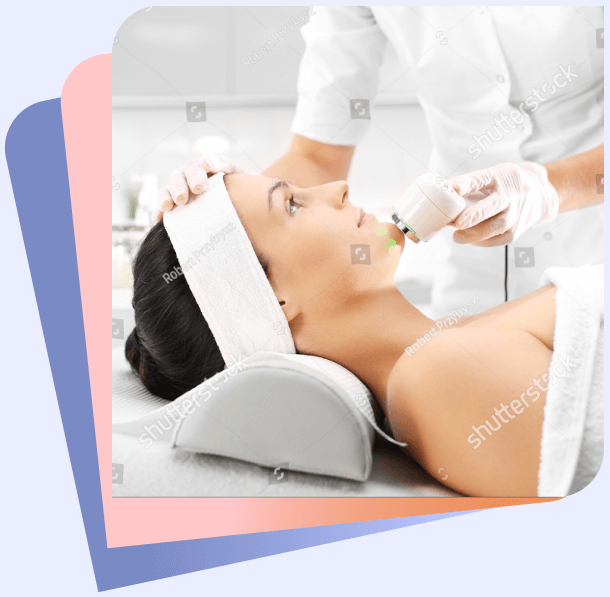
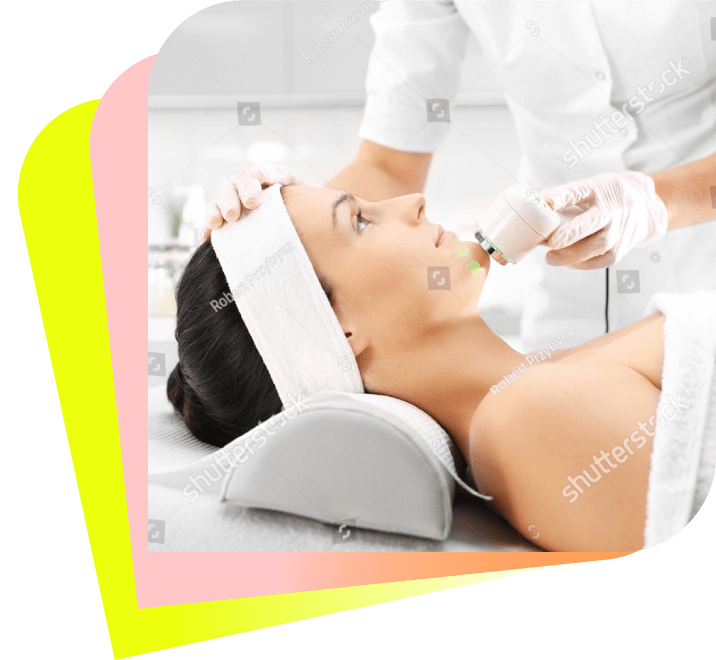
WIP

Changed region(s): [[0.0, 0.0, 1.0, 1.0], [0.5607, 0.0, 0.6541, 0.0905], [0.2803, 0.1508, 0.3738, 0.2111]]

diff --git a/src/app/components/home/Clinics.tsx b/src/app/components/home/Clinics.tsx
@@ -1,7 +1,7 @@
 'use client';
 
 import { useState } from 'react';
-import * as AccordionPrimitive from '@radix-ui/react-accordion';
+import * as Accordion from '@radix-ui/react-accordion';
 import { HOLAGLOW_COLORS } from 'app/utils/colors';
 import { Container, Flex } from 'designSystem/Layouts/Layouts';
 import { Text, Title, Underlined } from 'designSystem/Texts/Texts';
@@ -10,13 +10,13 @@ import Link from 'next/link';
 
 const CLINICS = [
   {
-    city: 'Barcelona',
-    address: 'Av. Diagonal 299, 08013',
+    city: 'Madrid',
+    address: 'c. Andrés Mellado 3, 28015',
     link: 'htpps://www.holaglow.es',
   },
   {
-    city: 'Madrid',
-    address: 'c. Andrés Mellado 3, 28015',
+    city: 'Barcelona',
+    address: 'Av. Diagonal 299, 08013',
     link: 'htpps://www.holaglow.es',
   },
   {
@@ -29,97 +29,119 @@ const CLINICS = [
 export default function Clinics() {
   const [selectedClinic, setSelectedClinic] = useState(CLINICS[0].city);
 
-  const Clinic = ({
-    city,
-    address,
-    link,
-  }: {
-    city: string;
-    address: string;
-    link: string;
-  }) => {
-    const [isActive] = useState(selectedClinic === city);
+  return (
+    <div className="relative bg-white">
+      <Container className="py-12">
+        <Title size="2xl" className="font-bold mb-8 md:w-1/2">
+          Nuestras <br className="hidden md:block" />
+          <Underlined color={HOLAGLOW_COLORS['lime']}>clínicas</Underlined>
+        </Title>
 
-    return (
-      <AccordionPrimitive.Root
-        type="single"
-        defaultValue="item-1"
-        collapsible
-        className="w-full"
-      >
-        <AccordionPrimitive.Item value="item" className="w-full">
-          <AccordionPrimitive.Header className="w-full">
-            <AccordionPrimitive.Trigger
-              className="w-full"
-              onClick={() => setSelectedClinic(city)}
-            >
+        {/* mobile clinic selector */}
+        <Accordion.Root
+          type="single"
+          collapsible
+          className="w-full flex flex-col gap-4 md:hidden"
+        >
+          {CLINICS.map(clinic => (
+            <Clinic
+              key={clinic.city}
+              city={clinic.city}
+              address={clinic.address}
+              link={clinic.link}
+            />
+          ))}
+        </Accordion.Root>
+
+        {/* desktop clinic selector */}
+        <div className="hidden md:flex w-1/2">
+          <Flex layout="col-left" className="gap-4 mr-24 w-full">
+            {CLINICS.map(clinic => (
               <Flex
                 layout="row-center"
-                className={`w-full text-xs transition-all justify-between cursor-pointer p-3 ${
-                  isActive ? 'bg-hg-lime' : 'bg-hg-black100'
-                }`}
+                className={`transition-all w-full justify-between bg-hg-black100 p-4 cursor-pointer ${
+                  selectedClinic === clinic.city
+                    ? 'bg-hg-lime300'
+                    : 'bg-hg-black100'
+                } `}
+                key={clinic.city}
+                onClick={() => setSelectedClinic(clinic.city)}
               >
                 <Flex layout="col-left">
                   <Text size="lg" className="font-semibold mb-2">
-                    {city}
+                    {clinic.city}
                   </Text>
-                  <address className="not-italic mb-2">{address}</address>
+                  <address className="not-italic mb-2 text-xs">
+                    {clinic.address}
+                  </address>
                   <Link
-                    className="text-hg-black500 underline"
+                    className="text-sm underline"
                     href="https://www.google.cat"
                   >
                     Más info
                   </Link>
                 </Flex>
-                <SvgAngle
-                  height={24}
-                  width={24}
-                  className="rotate-90 md:rotate-0"
-                />
+                <SvgAngle height={24} width={24} />
               </Flex>
-            </AccordionPrimitive.Trigger>
-          </AccordionPrimitive.Header>
-          <AccordionPrimitive.Content className="overflow-hidden w-full transition-all data-[state=open]:animate-slideDown data-[state=closed]:animate-slideUp">
-            <div
-              className="aspect-square relative"
-              style={{
-                background: `url("/images/home/maps/${selectedClinic.toLowerCase()}.png") center / 225% no-repeat`,
-              }}
-            ></div>
-          </AccordionPrimitive.Content>
-        </AccordionPrimitive.Item>
-      </AccordionPrimitive.Root>
-    );
-  };
-
-  return (
-    <div className="relative bg-white">
-      <Container className="py-12">
-        <div className="md:w-1/2 md:py-12 md:pr-24">
-          <Title size="2xl" className="font-bold mb-8">
-            Nuestras
-            <br />
-            <Underlined color={HOLAGLOW_COLORS['lime']}>clínicas</Underlined>
-          </Title>
-          <ul className="flex flex-col gap-4">
-            {CLINICS.map(clinic => (
-              <Clinic
-                key={clinic.city}
-                city={clinic.city}
-                address={clinic.address}
-                link={clinic.link}
-              />
             ))}
-          </ul>
+          </Flex>
         </div>
+        <div
+          className="absolute bg-slate-400 top-0 bottom-0 right-0 left-1/2 hidden md:block"
+          style={{
+            background: `url("/images/home/maps/${selectedClinic.toLowerCase()}.png") center / 100% no-repeat`,
+          }}
+        ></div>
       </Container>
-
-      <div
-        className="absolute bg-slate-400 top-0 bottom-0 right-0 left-1/2 hidden md:block"
-        style={{
-          background: `url("/images/home/maps/${selectedClinic.toLowerCase()}.png") center / cover no-repeat`,
-        }}
-      ></div>
     </div>
   );
 }
+
+const Clinic = ({
+  city,
+  address,
+  link,
+}: {
+  city: string;
+  address: string;
+  link: string;
+}) => {
+  return (
+    <Accordion.Item
+      value={city}
+      className="group w-full bg-hg-black100 data-[state=open]:bg-hg-lime300"
+    >
+      <Accordion.Header className="w-full">
+        <Accordion.Trigger className="w-full">
+          <Flex
+            layout="row-center"
+            className="w-full text-xs transition-all justify-between cursor-pointer p-3 "
+          >
+            <Flex layout="col-left">
+              <Text size="lg" className="font-semibold mb-2">
+                {city}
+              </Text>
+              <address className="text-xs not-italic mb-2">{address}</address>
+              <Link className="text-sm underline" href="https://www.google.cat">
+                Más info
+              </Link>
+            </Flex>
+            <SvgAngle
+              height={24}
+              width={24}
+              className="rotate-90 md:rotate-0"
+            />
+          </Flex>
+        </Accordion.Trigger>
+      </Accordion.Header>
+      <Accordion.Content className="md:hidden overflow-hidden w-full transition-all data-[state=open]:animate-slideDown data-[state=closed]:animate-slideUp">
+        <div
+          className="aspect-square relative"
+          style={{
+            background: `url("/images/home/maps/${city.toLowerCase()}.png") center / 225% no-repeat`,
+          }}
+        ></div>
+      </Accordion.Content>
+    </Accordion.Item>
+  );
+};

diff --git a/src/app/components/home/GoToTreatments.tsx b/src/app/components/home/GoToTreatments.tsx
@@ -8,25 +8,27 @@ import Image from 'next/image';
 
 export default function GoToTreatments() {
   return (
-    <div className="bg-hg-malva300 p-12">
-      <Container>
-        <Flex layout="row-center" className="gap-4 items-center">
-          <Flex layout="col-left" className="w-1/2">
+    <div className="bg-gradient-to-t from-hg-pink to-hg-purple500">
+      <Container className="py-12">
+        <Flex layout="col-left" className="gap-4 items-center md:flex-col">
+          <Flex layout="col-left" className="md:w-1/2">
             <SvgHolaglowHand
               height={90}
               width={90}
-              className="text-hg-malva mb-6"
+              className="text-hg-purple mb-6"
             />
-            <Title size="2xl" className="font-bold mb-20 text-hg-darkMalva">
+            <Title size="2xl" className="font-bold mb-20 text-white">
               La nueva cara de la medicina{' '}
-              <Underlined color={HOLAGLOW_COLORS['lime']}>estética</Underlined>
+              <Underlined color={HOLAGLOW_COLORS['darkMalva']}>
+                estética
+              </Underlined>
             </Title>
             <Button type="secondary" size="xl">
               Descubre tu tratamiento
               <SvgArrow className="ml-4" height={24} width={24} />
             </Button>
           </Flex>
-          <div className="w-1/2 relative aspect-square">
+          <div className="w-full md:w-1/2 relative aspect-square">
             <Image
               src="/images/home/treatments.png"
               alt="descubre los tratamientos"

diff --git a/src/designSystem/Buttons/Buttons.tsx b/src/designSystem/Buttons/Buttons.tsx
@@ -74,15 +74,11 @@ const ButtonBody = ({
   bgColor?: string;
   children: ReactNode;
 }) => {
-  if (bgColor) {
-    console.log(bgColor);
-  }
-
   const STYLES: any = {
     common: 'transition-all relative bottom-[1px] text-center rounded-full ',
     animations: '-translate-y-1 group-active:-translate-y-0',
     primary: 'bg-hg-black text-hg-lime',
-    secondary: 'bg-white text-hg-darkMalva border border-hg-black',
+    secondary: 'bg-white text-hg-purple border border-hg-black',
     tertiary: `${
       bgColor ? '' : 'bg-white hover:bg-hg-malva300 active:bg-hg-malva300'
     } ${color ? '' : 'text-hg-black border border-hg-black'}`,
@@ -122,7 +118,7 @@ const ButtonBase = ({ type }: { type: ButtonTypes }) => {
 
   const STYLES: any = {
     primary: 'bg-hg-lime border border-hg-black',
-    secondary: 'bg-hg-malva border border-hg-black',
+    secondary: 'bg-hg-purple border border-hg-black',
   };
 
   const styles = `${BUTTON_TYPES.includes(type) ? STYLES[type] : ''}`;

diff --git a/src/designSystem/Texts/Texts.tsx b/src/designSystem/Texts/Texts.tsx
@@ -17,7 +17,7 @@ export const Title = ({
 }) => {
   const STYLES = {
     '3xl': 'text-4xl lg:text-6xl',
-    '2xl': 'text-3xl lg:text-5xl',
+    '2xl': 'text-2xl lg:text-5xl',
     xl: 'text-xl lg:text-2xl',
   };
 

diff --git a/src/app/globals.css b/src/app/globals.css
@@ -24,7 +24,7 @@ body {
 }
 
 a {
-  color: theme('colors.hg.darkMalva');
+  color: theme('colors.hg.purple');
 }
 
 .floating-button {
